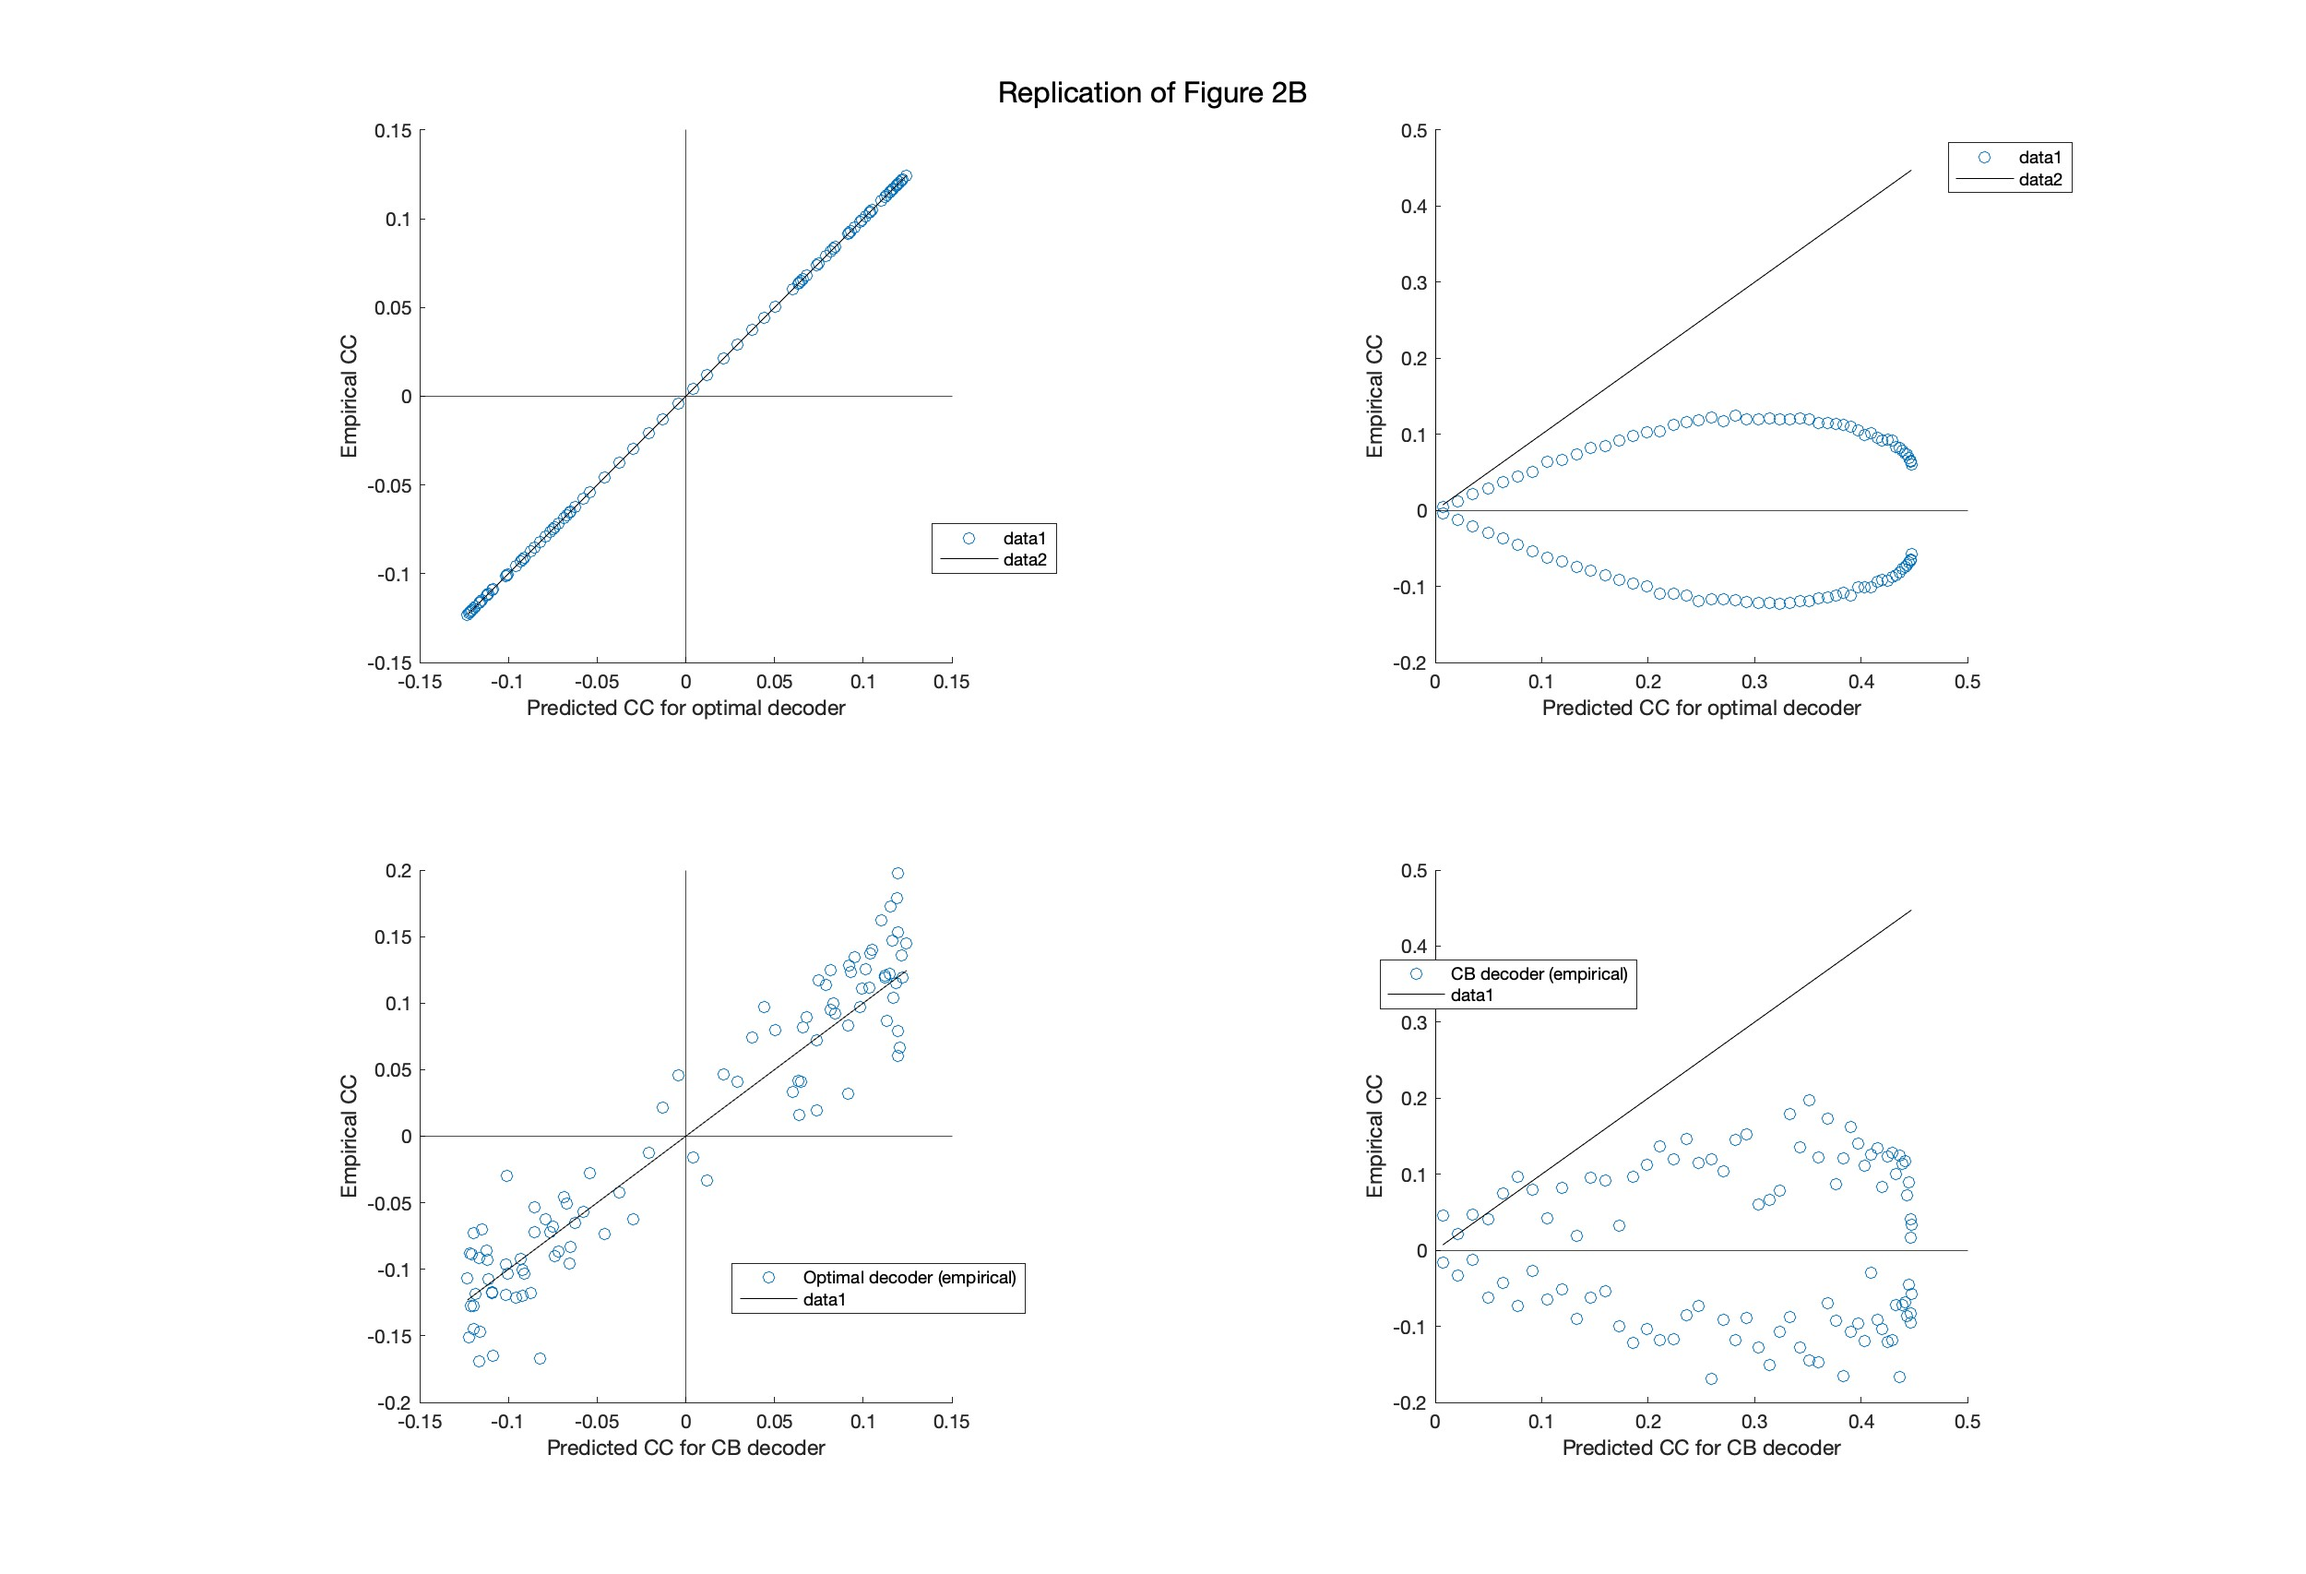
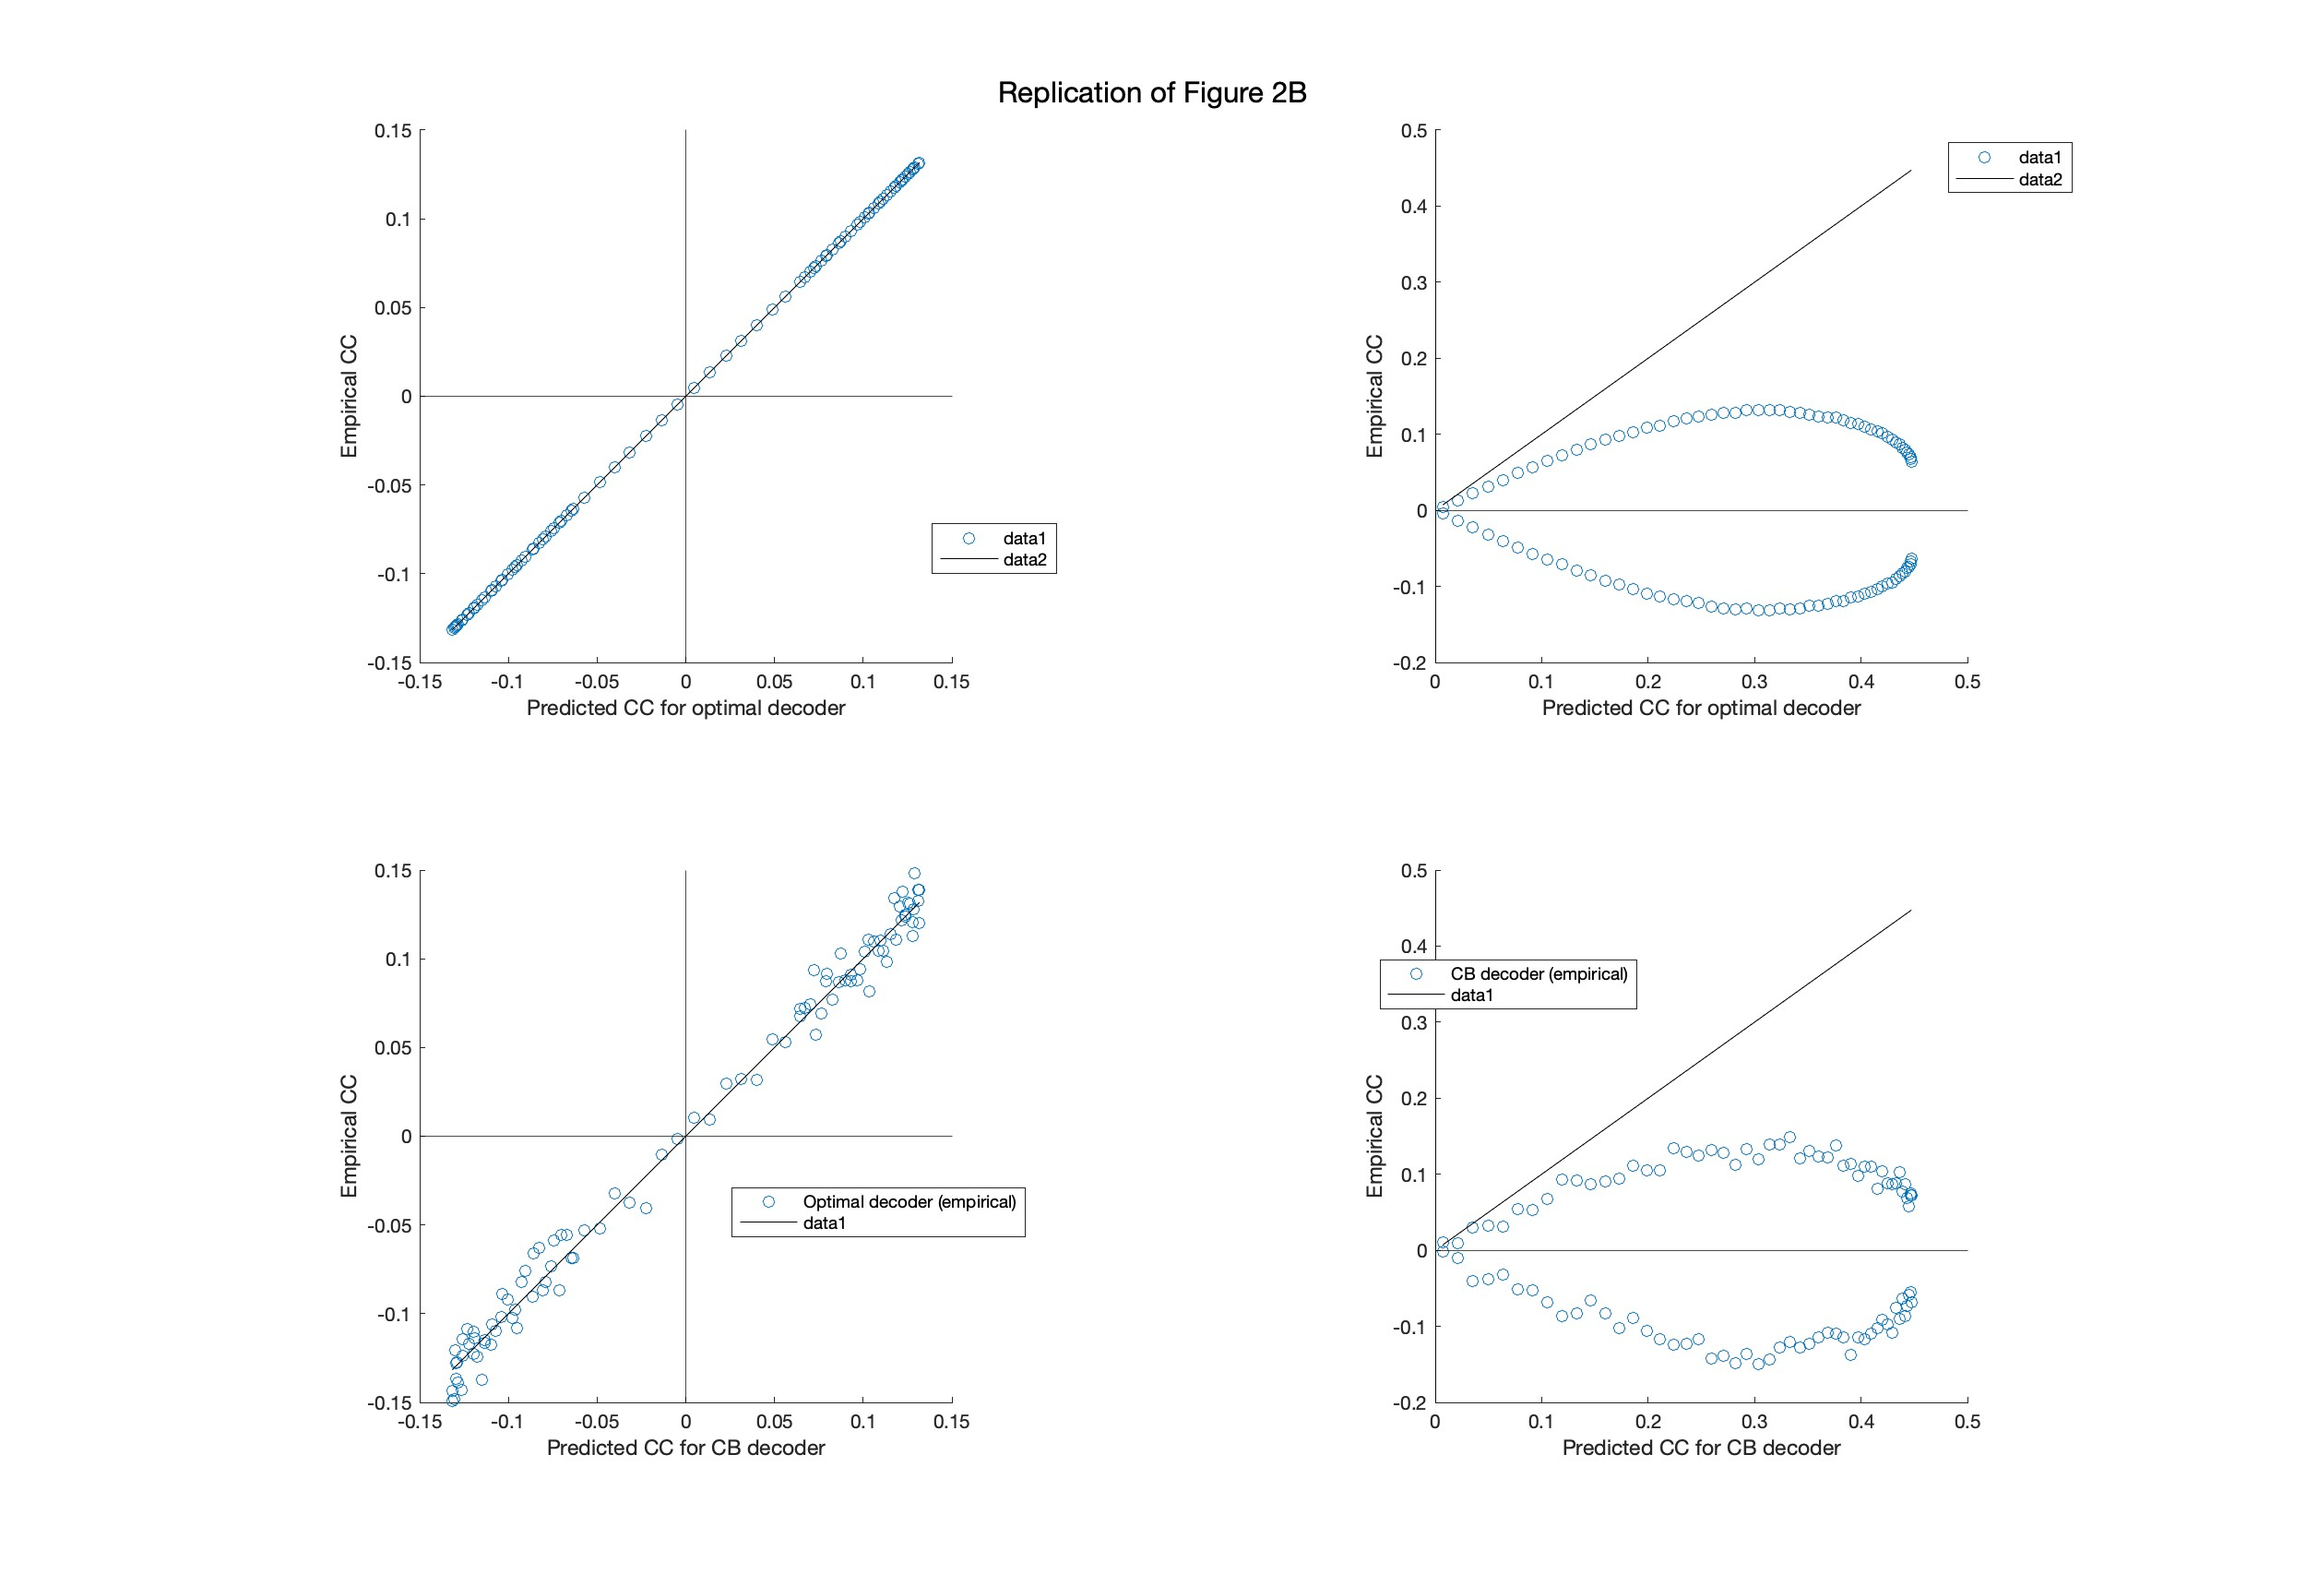
Print flags

diff --git a/Codes/Project/SX_sim_simpler.m b/Codes/Project/SX_sim_simpler.m
@@ -27,15 +27,15 @@ flag_uncorrelated = 1;
 flag_measure_threshold = 1;
 % If 1, fixes the stimulus to the reference direction (s=0) for all trials. This "measurement isolation" mode is necessary to accurately measure the psychometric threshold (theta) by removing stimulus variability.
 
-nNeurons = 100;           % population size
-nTrialsPerStim = 1;
+nNeurons = 100;  % Number of neurons
+nTrialsPerStim = 1; % Number of trials per stimulus
 
 % From Pitkow et al 2015
 % stimVals = [-6.4, -2.6, -1, 0, 1, 2.6, 6.4]/180*pi;
 % nStimVals = length(stimVals);
 
 % Manually set the stimulus values
-nStimVals = 1000; % number of stimulus levels
+nStimVals = 10000; % number of stimulus levels
 if flag_measure_threshold
     stimVals = zeros(1, nStimVals); % for testing, all zeros
 else
@@ -58,8 +58,8 @@ kappa = 1.5; % tuning width for von Mises; bigger kappa, narrower curve
 b = 0;
 a = 20;
 
-% Print parameters in one sentence
-fprintf('==================\nParameters\n   %d neurons\n   %d trials per stim levels, %d stim levels\n   c0=%.2f, kappa=%.2f, b=%.2f, a=%.2f\n==================\n', nNeurons, nTrialsPerStim, nStimVals, c0, kappa, b, a);
+% Print flags and parameters in one sentence
+fprintf('==================\nCorrelated noise (1=NO, 0=YES): %d\nStimulus are all at ref (1=Yes; 0=No): %d\nParameters\n   %d neurons\n   %d trials per stim levels, %d stim levels\n   c0=%.2f, kappa=%.2f, b=%.2f, a=%.2f\n==================\n', flag_uncorrelated, flag_measure_threshold, nNeurons, nTrialsPerStim, nStimVals, c0, kappa, b, a);
 rng(1); % reproducibility
 
 % Set stimulus sequence
